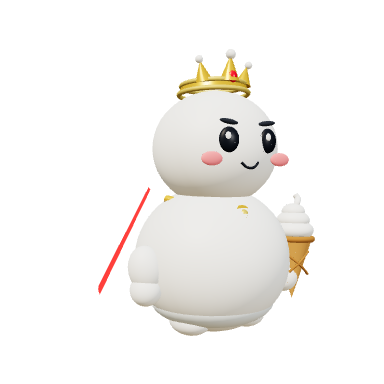
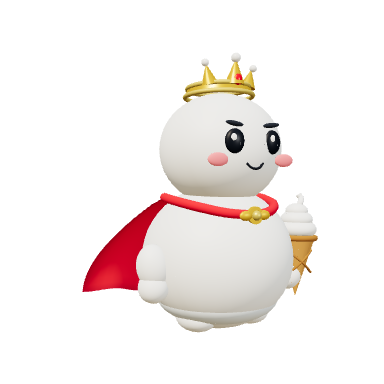
fix: improve Snow King cape shape and movement

diff --git a/src/snowkingModel.js b/src/snowkingModel.js
@@ -41,6 +41,55 @@ function curve(parent, name, points, radius, material) {
   );
 }
 
+function createCapeGeometry() {
+  const rows = 14;
+  const columns = 28;
+  const positions = [], colors = [], lift = [], sway = [], indices = [];
+  const fabric = new THREE.Color(0xf1283b);
+  const binding = new THREE.Color(0xb91f35);
+  const color = new THREE.Color();
+
+  for (let row = 0; row <= rows; row++) {
+    const length = row / rows;
+    const spread = Math.sin(length * Math.PI / 2);
+    // Leave the shoulder seam fixed. The loose fabric gains movement toward the hem.
+    const freedom = length * length;
+    for (let column = 0; column <= columns; column++) {
+      const across = 2 * column / columns - 1;
+      const edge = across * across;
+      const fold = Math.cos(across * Math.PI * 3);
+      const x = across * (0.20 + 0.24 * spread);
+      const y = -0.415 * length + edge * (0.014 + 0.027 * freedom) + fold * 0.012 * freedom;
+      const z = -0.177 - 0.23 * Math.pow(spread, 0.66) + edge * (0.105 - 0.032 * length) + fold * 0.022 * freedom;
+      positions.push(x, y, z);
+      lift.push(0, 0.052 * freedom, -0.085 * freedom);
+      sway.push(0.07 * freedom, -0.024 * across * freedom, 0.028 * across * freedom);
+
+      const trim = Math.max((Math.abs(across) - 0.90) / 0.10, (length - 0.90) / 0.10, 0);
+      color.copy(fabric).lerp(binding, trim * 0.75).multiplyScalar(1 + fold * 0.06 * length);
+      colors.push(color.r, color.g, color.b);
+      if (row < rows && column < columns) {
+        const a = row * (columns + 1) + column;
+        const b = a + columns + 1;
+        indices.push(a, a + 1, b, a + 1, b + 1, b);
+      }
+    }
+  }
+
+  const geometry = new THREE.BufferGeometry();
+  geometry.setAttribute('position', new THREE.Float32BufferAttribute(positions, 3));
+  geometry.setAttribute('color', new THREE.Float32BufferAttribute(colors, 3));
+  geometry.setIndex(indices);
+  geometry.computeVertexNormals();
+  geometry.morphTargetsRelative = true;
+  geometry.morphAttributes.position = [lift, sway].map((offsets, index) => {
+    const attribute = new THREE.Float32BufferAttribute(offsets, 3);
+    attribute.name = index === 0 ? 'lift' : 'sway';
+    return attribute;
+  });
+  return geometry;
+}
+
 /**
  * 蜜雪冰城雪王 (Snow King) 原生 3D 模型
  *
@@ -58,8 +107,8 @@ export function createSnowKingModel() {
   // 材质调色板
   const snowWhite = mat(0xffffff, 0.52);
   const snowShade = mat(0xebf2f8, 0.60);
-  const capeRed = mat(0xff2535, 0.45);
-  const capeDark = mat(0xc91221, 0.55);
+  const capeFabric = mat(0xffffff, 0.88, { vertexColors: true, side: THREE.DoubleSide });
+  const collarRed = mat(0xe52639, 0.82);
   const gold = mat(0xffc72c, 0.32, { metalness: 0.45 });
   const goldLight = mat(0xffdf6d, 0.28, { metalness: 0.5 });
   const jewelRed = mat(0xff1832, 0.15, { metalness: 0.25, roughness: 0.15 });
@@ -139,18 +188,18 @@ export function createSnowKingModel() {
   // 4. 颈部节点 (Neck)、红色大斗篷 (Cape) 与金胸针 (Brooch/Bow)
   const neck = pivot(root, 'Neck', [0, 0.48, 0]);
 
-  // 红色系带斗篷 (Cape) - 紧扣颈部后方，自然向后舒展，胸前绝不包覆
-  const cape = pivot(neck, 'Cape', [0, 0.02, -0.06]);
-  cape.rotation.x = 0.18; // 向后微扬
-  // 斗篷主片（后片）
-  const capeGeo = new THREE.CylinderGeometry(0.18, 0.36, 0.44, 20, 1, true, -Math.PI * 0.45, Math.PI * 0.90);
-  const capeMesh = mesh(capeGeo, capeRed, cape, 'Cape_Body', [0, -0.20, -0.10]);
-  capeMesh.rotation.y = Math.PI;
-  // 斗篷边缘滚边与里衬深红
-  mesh(new THREE.TorusGeometry(0.18, 0.014, 10, 24, Math.PI * 0.90), gold, cape, 'Cape_Collar', [0, 0.01, -0.05]).rotation.x = Math.PI / 2;
+  const cape = pivot(neck, 'Cape', [0, 0.02, 0]);
+  mesh(createCapeGeometry(), capeFabric, cape, 'Cape_Body');
+  const collar = pivot(cape, 'Cape_Collar');
+  for (const side of [-1, 1]) {
+    curve(collar, side < 0 ? 'Cape_Collar_L' : 'Cape_Collar_R', [
+      [side * 0.20, 0.014, -0.072], [side * 0.209, 0.006, 0.020],
+      [side * 0.172, -0.014, 0.140], [side * 0.094, -0.035, 0.213], [0, -0.044, 0.234]
+    ], 0.018, collarRed);
+  }
 
   // 金色领结胸针 (Brooch / Bow) - 挂在颈部正面，兼容骨骼
-  const bow = pivot(neck, 'Bow', [0, -0.02, 0.20]);
+  const bow = pivot(neck, 'Bow', [0, -0.024, 0.250]);
   mesh(new THREE.CylinderGeometry(0.032, 0.032, 0.014, 16), gold, bow, 'Brooch').rotation.x = Math.PI / 2;
   mesh(new THREE.SphereGeometry(0.018, 12, 10), goldLight, bow, 'Brooch_Center', [0, 0, 0.01]);
   // 领结左右两翼

diff --git a/src/rescueAnimal.js b/src/rescueAnimal.js
@@ -1,5 +1,5 @@
 import {createSnowKingModel} from './snowkingModel.js';
-import {resetSnowKing,SNOWKING_BASE_ROT_Y} from './snowkingMotion.js';
+import {resetSnowKing,setSnowKingCape,SNOWKING_BASE_ROT_Y} from './snowkingMotion.js';
 import {createBicycleModel} from './bicycleModel.js';
 import {resetBicycle,setBicycleFork,setBicycleBell,rollBicycleWheels,BICYCLE_BASE_ROT_Y} from './bicycleMotion.js';
 import {createModelXModel} from './modelxModel.js';
@@ -184,6 +184,7 @@ export class RescueAnimal {
     if(this.animalId==='airplane')resetAirplaneMotion(this);
     if(this.animalId==='modelx')resetModelX(this);
     if(this.animalId==='bicycle')resetBicycle(this);
+    if(this.animalId==='snowking')setSnowKingCape(this);
     this.state='CHEERING';this.escapeElapsed=0;this.ropesGroup.visible=false;this.hopTimer=0;
     this.comboMoveTimer=0;this.receiveTimer=0;this.moodWorried=0;this.moodExcited=0;
     this.spawnRopeBreakParticles();
@@ -292,6 +293,7 @@ export class RescueAnimal {
     if(this.animalId==='modelx'){resetModelX(this);this.model.rotation.y=.24;}
     if(this.animalId==='snowking'){
       resetSnowKing(this);const m=this.reducedMotion?.25:1;
+      setSnowKingCape(this, pulse * .30 * motion);
       if(this.state==='TRAPPED'){
         this.model.rotation.y=SNOWKING_BASE_ROT_Y;
         this.animalGroup.position.y=this.groundY;
@@ -352,6 +354,7 @@ export class RescueAnimal {
     for(const name of ['Whisker_L','Whisker_R'])this.model.getObjectByName(name)?.rotation.set(0,0,0);
     for(const s of this.springs||[]){s.pos=s.get();s.vel=0;}
     this.model.scale.set(1,1,1);this.model.rotation.set(0,-.16,0);this.setQuadrupedPosture(0);
+    if(this.animalId==='snowking')setSnowKingCape(this);
     for(const [name,sign]of [['Wing_L',-1],['Wing_R',1]]){const wing=this.model.getObjectByName(name);if(wing)wing.rotation.y=this.animalId==='airplane'?0:sign*.18;}
     for(const c of this.ropeCoils){Object.assign(c,{loosened:false,falling:false,fallTimer:0,stage:null,slackTimer:0,taut:false});c.group.visible=true;c.group.position.set(0,0,0);c.group.rotation.z=0;c.group.scale.set(1,1,1);c.mesh.material.opacity=1;}
     for(const p of this.particles){this.scene.remove(p.mesh);p.mesh.geometry.dispose();p.mesh.material.dispose();}this.particles=[];
@@ -456,8 +459,7 @@ export class RescueAnimal {
         this.headGroup.rotation.z = Math.sin(p * Math.PI * 2) * .08 * motion;
         this.rightArm.rotation.x = -.15 - beat * .20;
         this.rightArm.rotation.z = -.38 + beat * .10;
-        const cape = this.model.getObjectByName('Cape');
-        if (cape) cape.rotation.x = .18 + Math.sin(p * Math.PI * 2) * .12 * motion;
+        setSnowKingCape(this, gesture * .28, beat * .34);
         break;
       }
       case 'bunny': // A little hop with both ears lifting in reply.
@@ -601,6 +603,7 @@ export class RescueAnimal {
       c.group.position.x=Math.sin(this.idleTime*40)*.0045;c.group.scale.setScalar(1+Math.sin(this.idleTime*34)*.012);
     }
     if(this.state==='FRIEND'){this.updateFriendPose(dt);return;}
+    if(this.animalId==='snowking')setSnowKingCape(this);
     let jump=0;
     // Every pose starts from a fresh pitch; additive reactions must not accumulate over frames.
     this.headGroup.rotation.x=0;
@@ -731,8 +734,9 @@ export class RescueAnimal {
           this.model.rotation.z=waddle;
           this.leftArm.rotation.z=.22-waddle*.4;
           this.rightArm.rotation.z=-.38-waddle*.4;
-          const cape=this.model.getObjectByName('Cape');
-          if(cape)cape.rotation.x=.18+Math.sin(p*waddleFreq*.5)*.15;
+          const motion = this.reducedMotion ? .25 : 1;
+          const movement = Math.sin(p * Math.PI) * motion;
+          setSnowKingCape(this, movement * .45, Math.sin(p * waddleFreq - .45) * movement * .50);
         }else if(['cat','dog','chase'].includes(this.animalId)) {
           this.setQuadrupedPosture(1);
           const stride=Math.sin(p*Math.PI*(this.animalId==='dog'?24:20));

diff --git a/src/snowkingMotion.js b/src/snowkingMotion.js
@@ -2,6 +2,14 @@ import * as THREE from 'three';
 
 export const SNOWKING_BASE_ROT_Y = 0.52; // 3/4 等轴透视角度 (约 30°~35°)
 
+export function setSnowKingCape(animal, lift = 0, sway = 0) {
+  const cloth = animal.model.getObjectByName('Cape_Body');
+  if (!cloth?.morphTargetInfluences) return;
+  const targets = cloth.morphTargetDictionary;
+  cloth.morphTargetInfluences[targets.lift] = THREE.MathUtils.clamp(lift, 0, 1);
+  cloth.morphTargetInfluences[targets.sway] = THREE.MathUtils.clamp(sway, -1, 1);
+}
+
 /**
  * 复位雪王各骨架节点姿态，清除动画残留
  */
@@ -21,8 +29,7 @@ export function resetSnowKing(a) {
   if (a.rightLeg) a.rightLeg.rotation.set(0, 0, 0);
 
   // 特殊部件复位
-  const cape = a.model.getObjectByName('Cape');
-  if (cape) cape.rotation.set(0.18, 0, 0);
+  setSnowKingCape(a);
 
   const crown = a.model.getObjectByName('Crown');
   if (crown) crown.rotation.set(-0.05, 0, 0);
@@ -57,11 +64,8 @@ export function snowkingWaltz(a, t, m = 1) {
   a.leftArm.rotation.z = 0.22 - waltz * 0.18;
 
   // 红色披风随动舒展
-  const cape = a.model.getObjectByName('Cape');
-  if (cape) {
-    cape.rotation.x = 0.18 + Math.sin(t * Math.PI * 6) * 0.12 * m;
-    cape.rotation.z = -waltz * 0.15;
-  }
+  const trailingSway = Math.sin(t * Math.PI * 6 - .45) * Math.sin(t * Math.PI) * m;
+  setSnowKingCape(a, Math.abs(waltz) * .30, -trailingSway * .70);
 }
 
 /**
@@ -90,10 +94,7 @@ export function snowkingTorch(a, t, m = 1) {
   }
 
   // 披风后扬
-  const cape = a.model.getObjectByName('Cape');
-  if (cape) {
-    cape.rotation.x = 0.18 + raise * 0.25;
-  }
+  setSnowKingCape(a, raise * .85);
 }
 
 /**
@@ -115,10 +116,7 @@ export function snowkingCoronation(a, t, m = 1) {
   a.leftArm.rotation.z = 0.22 + salute * 0.28;
 
   // 斗篷披风随风飘拂舒展
-  const cape = a.model.getObjectByName('Cape');
-  if (cape) {
-    cape.rotation.x = 0.18 + salute * 0.28;
-  }
+  setSnowKingCape(a, salute * .75, Math.sin(t * Math.PI * 2) * salute * .28);
 
   // 金冠尊贵微闪
   const crown = a.model.getObjectByName('Crown');

diff --git a/src/energyReactions.js b/src/energyReactions.js
@@ -1,5 +1,6 @@
 import {setFalcon} from './modelxMotion.js';
 import {setBicycleFork, setBicycleBell} from './bicycleMotion.js';
+import {setSnowKingCape} from './snowkingMotion.js';
 // Each row is an action card: three readable replies using the character's own shape.
 export const ENERGY_REACTIONS = {
  snowking:['权杖轻扬','萌趣摇晃','甜蜜点赞'],
@@ -37,7 +38,7 @@ export function applyEnergyReaction(a) {
     nod(-.06);
   }else if(v===1){
     tilt(Math.sin(p*Math.PI*2)*.12);
-    const cape=a.model.getObjectByName('Cape');if(cape)cape.rotation.x=.18+.22*s;
+    setSnowKingCape(a, .60 * s, Math.sin(p * Math.PI * 2) * .68 * s);
   }else{
     a.rightArm.rotation.x=-.18*s;a.rightArm.rotation.z=-.38-.15*s;
     nod(.10);

diff --git a/progress.md b/progress.md
@@ -1,3 +1,5 @@
+2026-11-28 雪王披风返工。把圆筒截面换成双面布片，红领口在金扣处收拢并固定在肩颈，只有下摆随逐泡摇晃、演出、离场和告别变形。原生模型、GLB、首页与营地共用头像已同步，减少动态效果和暂停、复位通过角色专项。`qa_v55_snowking`、`qa_v45_energy_reactions`、`qa_v38_character_details` 和 Pages 子路径构建已通过。浏览器在 1194×834 和 834×1194 通过模拟输入从 0 到 8，完成问答、步行、告别和结算，确认加载 GLB，无页面脚本错误。已打开头像、逐泡反应、行走及告别截图，游戏截图位于 `output/playwright/snowking-cape/`。
+
 2026-11-22 开屏时序调校为 ~2.25s 黄金节奏（本地未提交/推送）：
 - 聚拢与文案阅读放缓至 1200ms：微粒柔和凝聚，留出充足视线时间从容读完 12 条单行童趣文案，避免 400ms 一闪而过的仓促感。
 - 100% 脉冲定格调整为 600ms：淡金色光环（400ms）完整漾开，就绪反馈踏实明确。

diff --git a/docs/SNOWKING_CHARACTER.md b/docs/SNOWKING_CHARACTER.md
@@ -65,6 +65,8 @@ graph TD
 
 ## 三、 防遮挡与视口适配检查清单
 
+2026-11-28 披风调整。红领口贴着肩颈，在胸前以金扣收拢。后片用双面布面表现浅褶和深红包边，领口一侧的顶边固定。`Cape_Body` 的 `lift`、`sway` 从上到下逐步增加幅度，供逐泡摇晃、庆祝、行走和告别使用。暂停保持当前形状，重开恢复自然垂落，减少动态效果时降低下摆摆幅。
+
 1. **横屏视口（1194×834）与竖屏视口（834×1194）**：
    - 处于左侧起点（受困）时，下身腹部处于 y ≈ 0.20~0.32，木桩绳圈严禁压过 Neck（y=0.42）以上；
    - 处于舞台中央（获救庆祝）时，甜筒权杖处于画面偏右前方，与头部中心保持至少 0.5 视口宽度横向间距；
